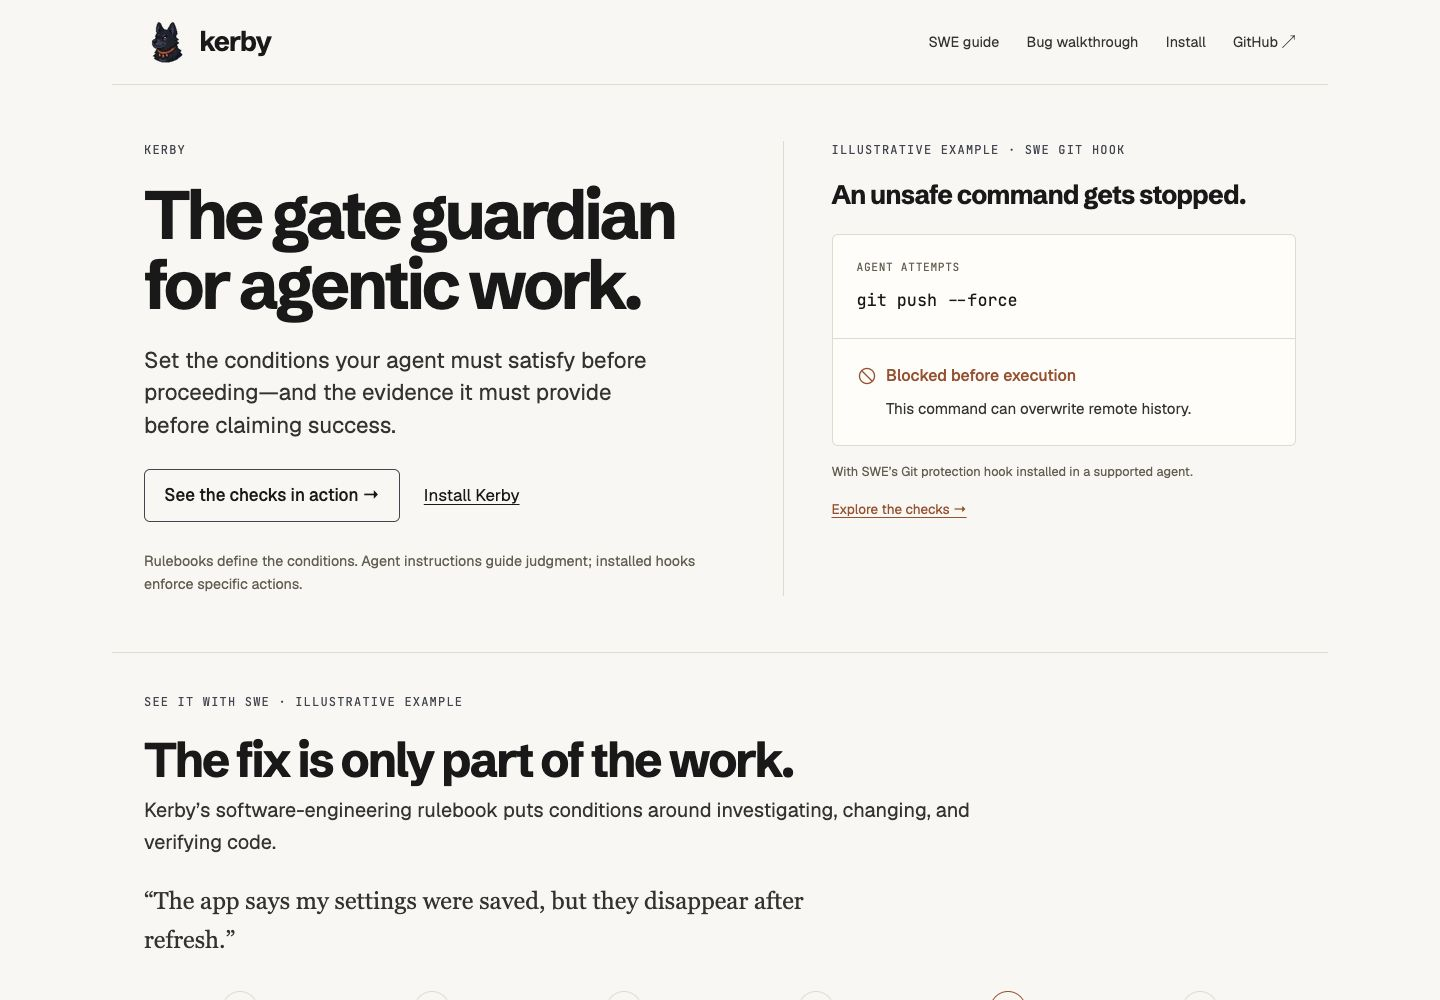
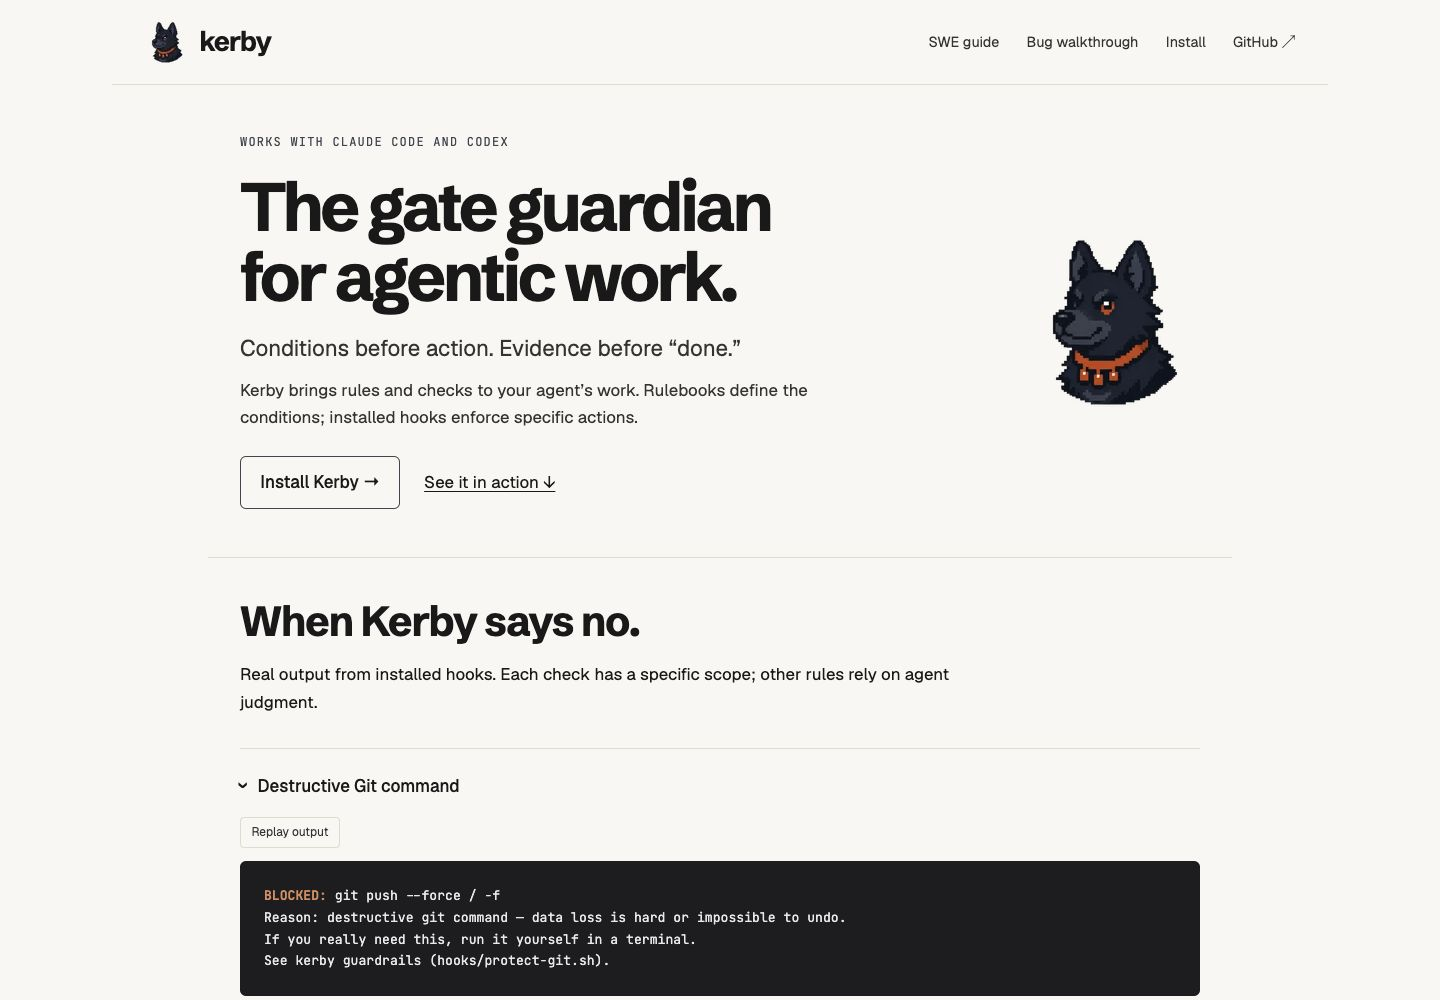
refactor: simplify homepage around identity demonstration and adoption

diff --git a/docs/redesign-review.md b/docs/redesign-review.md
@@ -87,3 +87,9 @@ Replaced the hero's condition/check/consequence definition list with a short com
 ## Visual designer pass on the hero example
 
 Two independent design agents identified the rail/arrow/divider collision and inconsistent text insets. Replaced that construction with one light outlined frame and two consistently padded rows, plus an SVG stop icon and explicit “Blocked before execution” label. Installation context stays outside the frame. A follow-up desktop screenshot review found no material visual issue; mobile rendering was also inspected at 375px with no horizontal overflow. Full checks pass. Homepage screenshots refreshed.
+
+## Subtractive homepage revision
+
+Reduced the homepage to four sections: guardian introduction with a moderate original portrait, genuine hook transcripts, a compact SWE preview, and installation. Removed the duplicate hero hook example and standalone responsibility/verification explanations from the homepage; the full guides and walkthrough retain that detail. The SWE preview links into the same six stages, rendered in two compact rows on mobile. Secondary rulebook content remains in a native disclosure. Console transcripts now wrap on narrow screens; their exact text and animation behavior remain intact.
+
+Full `bun run check` passes, including pinned source validation. Production rendering inspected at 1440px and 375px; no page overflow at 375px. Updated homepage screenshots show this revision. Existing guide screenshots and guide content are unaffected by this pass. The PR remains open for review; the live original is unchanged.

diff --git a/DESIGN.md b/DESIGN.md
@@ -69,7 +69,7 @@ file on purpose, never a downstream consumer.
 
 The homepage introduces Kerby as the gate guardian for agentic work. Rulebooks provide the conditions; SWE is the featured software-engineering example. The SWE guides explain a guarded path to completion. A reader should understand how their agent works differently, what permits advancement, who checks a condition, and what happens when it is unmet. The current head-and-neck pixel mascot remains the guardian identity; the interface explains the conditions.
 
-The supplied homepage mockup governs the compact composition: a split hero with the guardian identity and a compact, explicitly labeled hook example showing an attempted command and its blocked outcome, a connected six-stage path with a verification detail, compact icon-led responsibilities, and a single-row portrait footer. Required transcript and installation sections continue below this core narrative.
+The homepage now uses a reduced four-part composition: guardian introduction with the original portrait, genuine hook output, a compact SWE preview, and installation. Homepage content is capped at 64rem; guides retain the wider shell. Detailed verification and responsibility explanations belong in the guides. Keep the six-stage preview compact (three columns by two rows on mobile).
 
 The approved redesign replaces the previous transcript-first single-column design. The homepage labels the illustrative settings bug and six-stage path as SWE examples; all guide pages use the same responsibility and checkpoint language.
 
